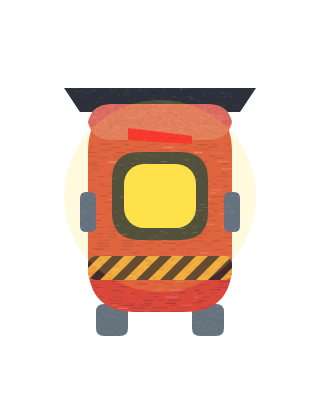
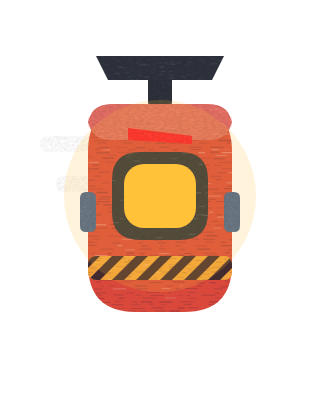
A36: cartucho/ícone do Corredor no padrão dos outros mechas (núcleo âmbar, aerofólio curto, sem pés)
Claude-Session: https://claude.ai/code/session_018QUPBQj4sLX3w64QQJCiVt

diff --git a/art/src/robos/mecha_cartucho.py b/art/src/robos/mecha_cartucho.py
@@ -22,7 +22,7 @@ TEMAS = {   # id: (nome, cor do casco, cor do núcleo, função do mecha, detalh
     "T04": ("JATO", "#d8dde4", "#5fb8ff", ac.jato, "aletas"),
     "T05": ("BROCA", "#e07a2e", "#ffd36b", ac.broca, "ponta"),
     "T06": ("PARA-RAIOS", "#2f3f5a", "#7fe7ff", ah.para_raios, "bobina"),
-    "T07": ("CORREDOR", "#d9483b", "#ffe14a", None, "aerofolio"),   # A36 (função preenchida abaixo, evita import circular)
+    "T07": ("CORREDOR", "#d9483b", "#ffc23a", None, "aerofolio"),   # A36 (função preenchida abaixo, evita import circular)
 }
 
 
@@ -49,9 +49,9 @@ def cartucho(tid, s=1.0, brilho=1.0):
     if det == "aletas":
         o += P_([(-18, 10), (-28, 26), (-14, 22)], STEEL_D, k=0.2) + P_([(18, 10), (28, 26), (14, 22)], STEEL_D, k=0.2)
         o += R(-6, 24, 12, 8, 2, DARK, k=0.2) + P_([(-5, 32), (5, 32), (0, 32 + 14 * brilho)], "#ff9a1f", k=0.2)
-    if det == "aerofolio":   # A36: aerofólio em cima, escapamentos embaixo, linhas de velocidade
-        o += P_([(-24, -30), (24, -30), (20, -24), (-20, -24)], DARK, k=0.2) + R(-16, 24, 8, 8, 2, STEEL_D, k=0.1) + R(8, 24, 8, 8, 2, STEEL_D, k=0.1)
-        o += "".join(f'<path d="M{-30 - i * 6},{-6 + i * 8} h-12" stroke="#ffffff" stroke-width="3" stroke-linecap="round" opacity="0.8"/>' for i in range(3))
+    if det == "aerofolio":   # A36: aerofólio curto em cima + 2 riscas de velocidade coladas ao lado (como o garfo da Empilhadeira)
+        o += R(-3, -34, 6, 9, 1.5, DARK, k=0.1) + P_([(-16, -38), (16, -38), (13, -32), (-13, -32)], DARK, k=0.2)
+        o += R(-30, -18, 14, 4, 2, "#ffffff", k=0.1) + R(-26, -8, 10, 4, 2, "#ffffff", k=0.1)
     if det == "ponta":
         o += S("M-10,-24 L10,-24 L0,-44 Z", STEEL, (-11, -45, 11, -23), k=0.4, dark=STEEL_D, light=STEEL_L)
     if det == "bobina":
